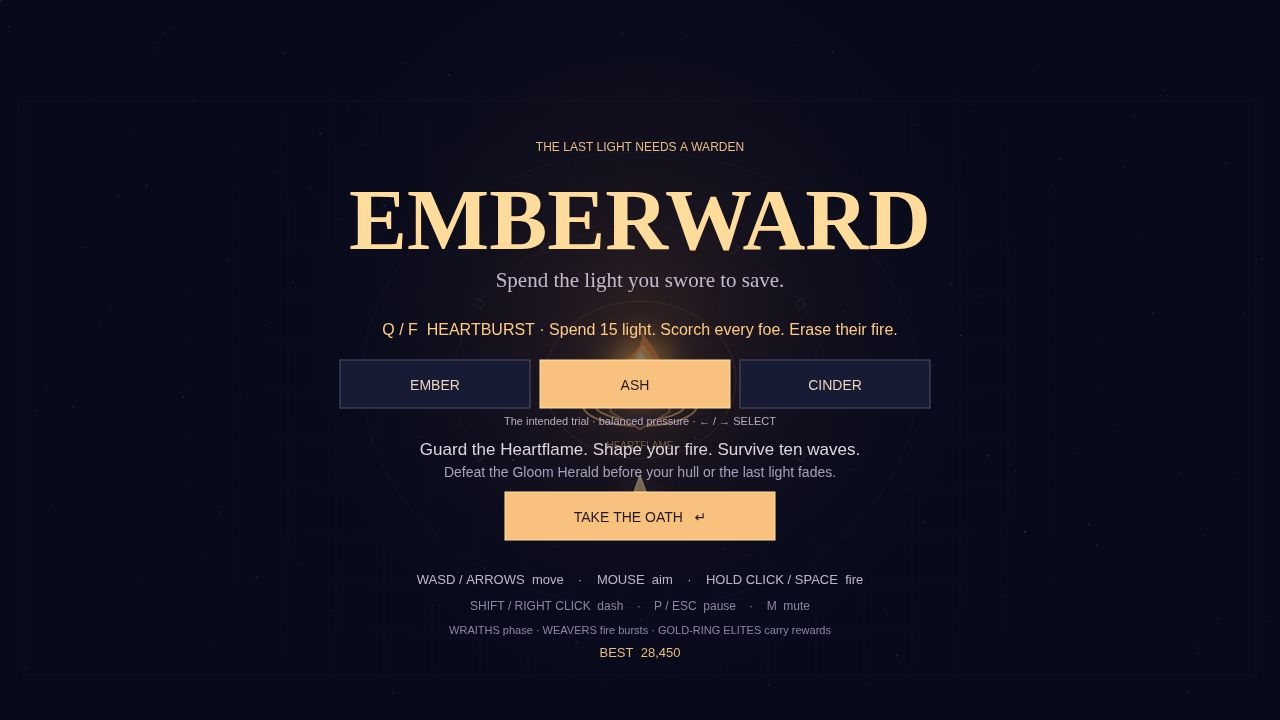
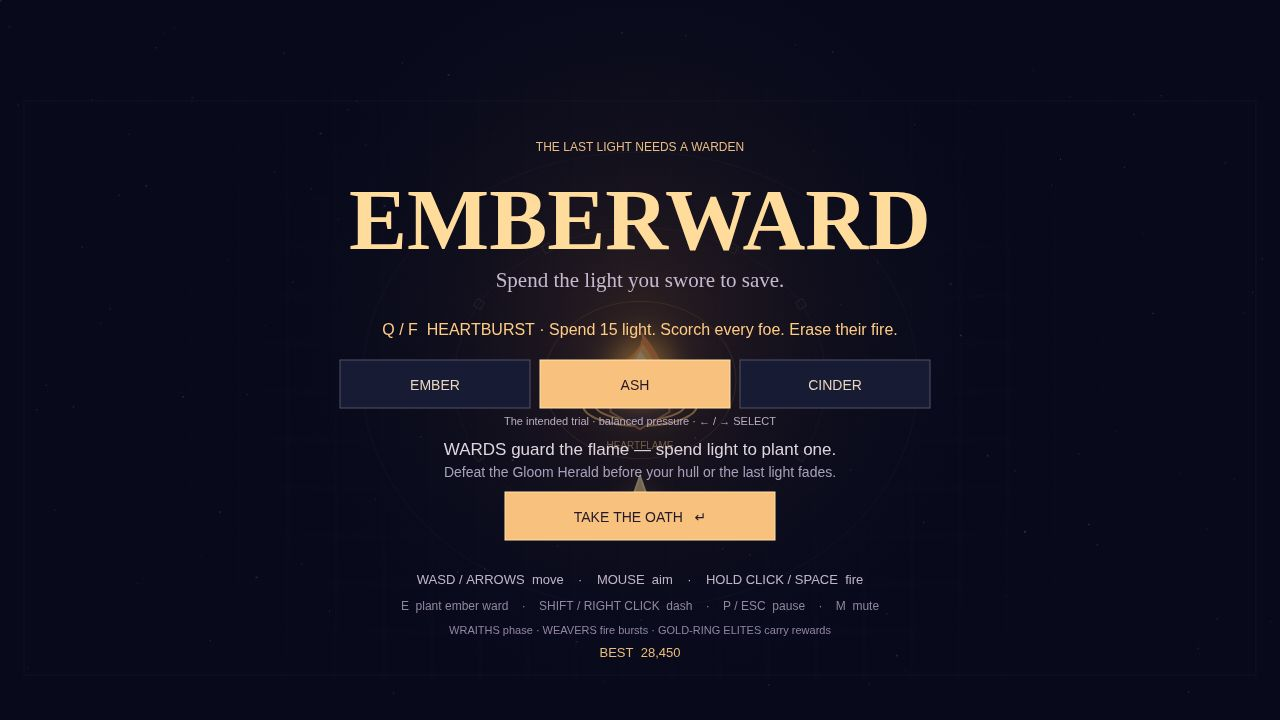
best-game-01 v3: Emberward — Ember Wards (E plants auto-firing ward, 10 light, max 3, 60 HP)

Changed region(s): [[0.3125, 0.6111, 0.6875, 0.6417], [0.3125, 0.825, 0.625, 0.8556], [0.6562, 0.825, 0.6875, 0.8556]]

diff --git a/game/src/render.js b/game/src/render.js
@@ -1,3 +1,4 @@
+import {drawWards} from './wards.js';
 import {difficulty,difficulties} from './difficulty.js';
 import {drawHeartburst} from './nova.js';
 import {CX,CY,colors} from './config.js';
@@ -9,6 +10,6 @@ function polygon(c,x,y,r,n,a=0){c.beginPath();for(let i=0;i<n;i++){const t=a+i*6
 export function background(c,s){c.fillStyle='#090c1e';c.fillRect(0,0,1280,720);glow(c,640,380,620,'#271b473f');for(let i=0;i<130;i++){const x=(i*173.71)%1280,y=(i*i*27.31)%720;c.globalAlpha=.2+.3*(.5+.5*Math.sin(s.time*.5+i));c.fillStyle=i%4?'#9694c4':'#f8ce91';c.fillRect(x,y,i%7===0?2:1,1.5);}c.globalAlpha=1;c.strokeStyle='#65558613';c.lineWidth=1;for(let x=0;x<1280;x+=48){c.beginPath();c.moveTo(x,88);c.lineTo(x,680);c.stroke();}for(let y=104;y<680;y+=48){c.beginPath();c.moveTo(0,y);c.lineTo(1280,y);c.stroke();}c.strokeStyle='#63517938';c.strokeRect(24,101,1232,574);for(const r of [96,186,278]){c.beginPath();c.ellipse(CX,CY,r,r*.82,0,0,Math.PI*2);c.strokeStyle=r===96?'#e5ae5844':'#7a628b28';c.stroke();}for(let i=0;i<12;i++){const a=i*Math.PI/6;c.save();c.translate(CX+Math.cos(a)*186,CY+Math.sin(a)*152);c.rotate(a);c.strokeStyle='#b28f6540';c.strokeRect(-4,-4,8,8);c.restore();}}
 export function heart(c,s){const t=s.time;glow(c,CX,CY,245,'#f89a2221');glow(c,CX,CY,110,'#ffb3412b');c.strokeStyle='#eeb86c';c.lineWidth=2;for(let i=0;i<2;i++){c.beginPath();c.ellipse(CX,CY+25,45+i*12,15+i*6,0,0,Math.PI*2);c.stroke();}c.fillStyle='#251e35';polygon(c,CX,CY+15,34,6,Math.PI/6);c.fill();c.strokeStyle='#b57d53';c.stroke();c.save();c.translate(CX,CY);c.shadowColor='#ffb947';c.shadowBlur=35;for(let k=0;k<3;k++){c.fillStyle=['#f68645','#ffc26c','#fff0b0'][k];const r=23-k*7;c.beginPath();c.moveTo(-r,7);c.bezierCurveTo(-r*1.6,-15,8+Math.sin(t*3)*5,-28-k*8,0,-49+k*10);c.bezierCurveTo(35-k*9,-11,27-k*8,16,0,20-k*4);c.closePath();c.fill();}c.restore();text(c,'HEARTFLAME',CX,CY+69,10,'#e5b47d','center');}
 function drawEnemy(c,e,t){c.save();if(e.phased)c.globalAlpha=.23;if(e.elite){c.strokeStyle='#ffd47d';c.lineWidth=2;c.beginPath();c.arc(e.x,e.y,e.r+7,0,7);c.stroke();}const color=e.flash>0?'#fff6dc':e.enraged?'#ff756f':colors[e.type];glow(c,e.x,e.y,e.r*2.8,color+'22');c.save();c.translate(e.x,e.y);if(e.type==='warden')c.scale(.6,.6);c.rotate(e.type==='dasher'?Math.atan2(e.y-380,e.x-640):Math.sin(t+e.x)*.13);c.strokeStyle=color;c.fillStyle=e.flash>0?'#fff2da':'#17152f';c.lineWidth=2;if(e.type==='wisp'||e.type==='mini'){c.beginPath();c.moveTo(-e.r,7);c.bezierCurveTo(-e.r*1.5,-e.r,0,-e.r*1.8,e.r,0);c.lineTo(e.r*.5,e.r);c.lineTo(0,e.r*.5);c.lineTo(-e.r*.5,e.r);c.closePath();}else if(e.type==='wraith'){polygon(c,0,0,e.r,4,t);c.setLineDash([5,4]);}else if(e.type==='weaver'){polygon(c,0,0,e.r,3,-t*.6);}else if(e.type==='dasher'){polygon(c,0,0,e.r*1.3,3,0);}else if(e.type==='spitter'){polygon(c,0,0,e.r,6,t*.2);}else if(e.type==='splitter'){polygon(c,0,0,e.r,4,0);}else{polygon(c,0,0,e.r,['boss','warden'].includes(e.type)?8:6,Math.PI/8);}c.fill();c.stroke();c.shadowColor=color;c.shadowBlur=12;c.fillStyle=color;if(e.type==='boss'||e.type==='warden'){for(let i=0;i<8;i++){const a=i*Math.PI/4;c.beginPath();c.moveTo(Math.cos(a)*45,Math.sin(a)*45);c.lineTo(Math.cos(a+.12)*84,Math.sin(a+.12)*84);c.lineTo(Math.cos(a+.3)*50,Math.sin(a+.3)*50);c.fill();}c.beginPath();c.ellipse(0,0,23,11,0,0,Math.PI*2);c.fill();c.fillStyle='#20152f';c.fillRect(-3,-12,6,24);}else{c.fillRect(-7,-3,4,5);c.fillRect(3,-3,4,5);if(e.type==='brute'){c.strokeRect(-15,-15,30,30);}if(e.type==='splitter'){c.beginPath();c.moveTo(0,-17);c.lineTo(-5,0);c.lineTo(4,5);c.lineTo(0,17);c.stroke();}}c.restore();if(e.hp<e.max){c.fillStyle='#3b294a';c.fillRect(e.x-e.r,e.y-e.r-12,e.r*2,3);c.fillStyle=color;c.fillRect(e.x-e.r,e.y-e.r-12,e.r*2*e.hp/e.max,3);}c.restore();}
-export function arena(c,s){background(c,s);c.save();if(s.shake)c.translate(Math.sin(s.time*73)*s.shake,Math.cos(s.time*57)*s.shake*.65);heart(c,s);for(const q of s.pickups){const color=pickupColors[q.type];glow(c,q.x,q.y,30,color+'33');polygon(c,q.x,q.y,13,4,s.time*.4);c.fillStyle='#131c2e';c.fill();c.strokeStyle=color;c.stroke();text(c,{repair:'+',shield:'◇',rapid:'»',bomb:'✦'}[q.type],q.x,q.y+5,17,color,'center');}for(const e of s.enemies)drawEnemy(c,e,s.time);c.lineCap='round';for(const b of s.bullets){c.strokeStyle='#ffcf76';c.shadowColor='#ffb24d';c.shadowBlur=13;c.lineWidth=b.size||3;c.beginPath();c.moveTo(b.x-b.vx*.026,b.y-b.vy*.026);c.lineTo(b.x,b.y);c.stroke();}c.shadowBlur=0;for(const o of s.orbs){glow(c,o.x,o.y,22,'#b576f64f');c.fillStyle='#d7b0ff';c.beginPath();c.arc(o.x,o.y,5,0,7);c.fill();}const p=s.player;c.save();c.translate(p.x,p.y);c.rotate(p.angle);glow(c,0,0,42,'#ffcc6b30');if(p.inv>0&&Math.floor(s.time*15)%2===0)c.globalAlpha=.4;c.fillStyle='#f9ce8a';c.strokeStyle='#fff1c6';c.lineWidth=2;c.beginPath();c.moveTo(24,0);c.lineTo(-13,-13);c.lineTo(-7,0);c.lineTo(-13,13);c.closePath();c.fill();c.stroke();c.fillStyle='#64415a';polygon(c,1,0,6,4);c.fill();c.fillStyle='#ff824d';c.beginPath();c.moveTo(-11,-5);c.lineTo(-22-Math.sin(s.time*30)*6,0);c.lineTo(-11,5);c.fill();if(p.muzzle>0){glow(c,29,0,40,'#ffe4a7aa');}c.restore();if(p.shield>0){c.strokeStyle='#81d9ff';c.beginPath();c.arc(p.x,p.y,28,0,7);c.stroke();}for(let i=0;i<p.orbits;i++){const x=p.x+Math.cos(s.time*2.5+i*6.28/p.orbits)*55,y=p.y+Math.sin(s.time*2.5+i*6.28/p.orbits)*55;glow(c,x,y,23,'#ffd08c88');c.fillStyle='#ffdc98';polygon(c,x,y,7,4,s.time);c.fill();}for(const q of s.particles){c.globalAlpha=Math.min(1,q.life*2);c.fillStyle=q.color;c.fillRect(q.x,q.y,q.size,q.size);}c.globalAlpha=1;for(const q of s.texts){c.globalAlpha=Math.min(1,q.life*2);text(c,q.text,q.x,q.y,q.size||14,q.color,'center');}c.globalAlpha=1;c.restore();drawHeartburst(c,s);if(s.clearFlash>0){c.fillStyle=`rgba(255,222,155,${s.clearFlash})`;c.fillRect(0,0,1280,720);}if(s.flame<25&&s.screen==='play')s.damageFlash=Math.max(s.damageFlash,.14+.1*Math.sin(s.time*5));if(s.damageFlash>0){const g=c.createRadialGradient(640,360,200,640,360,700);g.addColorStop(0,'transparent');g.addColorStop(1,`rgba(255,75,100,${s.damageFlash})`);c.fillStyle=g;c.fillRect(0,0,1280,720);}}
+export function arena(c,s){background(c,s);c.save();if(s.shake)c.translate(Math.sin(s.time*73)*s.shake,Math.cos(s.time*57)*s.shake*.65);heart(c,s);drawWards(c,s);for(const q of s.pickups){const color=pickupColors[q.type];glow(c,q.x,q.y,30,color+'33');polygon(c,q.x,q.y,13,4,s.time*.4);c.fillStyle='#131c2e';c.fill();c.strokeStyle=color;c.stroke();text(c,{repair:'+',shield:'◇',rapid:'»',bomb:'✦'}[q.type],q.x,q.y+5,17,color,'center');}for(const e of s.enemies)drawEnemy(c,e,s.time);c.lineCap='round';for(const b of s.bullets){c.strokeStyle=b.ward?'#fff1b4':'#ffcf76';c.shadowColor='#ffb24d';c.shadowBlur=13;c.lineWidth=b.size||3;c.beginPath();c.moveTo(b.x-b.vx*.026,b.y-b.vy*.026);c.lineTo(b.x,b.y);c.stroke();}c.shadowBlur=0;for(const o of s.orbs){glow(c,o.x,o.y,22,'#b576f64f');c.fillStyle='#d7b0ff';c.beginPath();c.arc(o.x,o.y,5,0,7);c.fill();}const p=s.player;c.save();c.translate(p.x,p.y);c.rotate(p.angle);glow(c,0,0,42,'#ffcc6b30');if(p.inv>0&&Math.floor(s.time*15)%2===0)c.globalAlpha=.4;c.fillStyle='#f9ce8a';c.strokeStyle='#fff1c6';c.lineWidth=2;c.beginPath();c.moveTo(24,0);c.lineTo(-13,-13);c.lineTo(-7,0);c.lineTo(-13,13);c.closePath();c.fill();c.stroke();c.fillStyle='#64415a';polygon(c,1,0,6,4);c.fill();c.fillStyle='#ff824d';c.beginPath();c.moveTo(-11,-5);c.lineTo(-22-Math.sin(s.time*30)*6,0);c.lineTo(-11,5);c.fill();if(p.muzzle>0){glow(c,29,0,40,'#ffe4a7aa');}c.restore();if(p.shield>0){c.strokeStyle='#81d9ff';c.beginPath();c.arc(p.x,p.y,28,0,7);c.stroke();}for(let i=0;i<p.orbits;i++){const x=p.x+Math.cos(s.time*2.5+i*6.28/p.orbits)*55,y=p.y+Math.sin(s.time*2.5+i*6.28/p.orbits)*55;glow(c,x,y,23,'#ffd08c88');c.fillStyle='#ffdc98';polygon(c,x,y,7,4,s.time);c.fill();}for(const q of s.particles){c.globalAlpha=Math.min(1,q.life*2);c.fillStyle=q.color;c.fillRect(q.x,q.y,q.size,q.size);}c.globalAlpha=1;for(const q of s.texts){c.globalAlpha=Math.min(1,q.life*2);text(c,q.text,q.x,q.y,q.size||14,q.color,'center');}c.globalAlpha=1;c.restore();drawHeartburst(c,s);if(s.clearFlash>0){c.fillStyle=`rgba(255,222,155,${s.clearFlash})`;c.fillRect(0,0,1280,720);}if(s.flame<25&&s.screen==='play')s.damageFlash=Math.max(s.damageFlash,.14+.1*Math.sin(s.time*5));if(s.damageFlash>0){const g=c.createRadialGradient(640,360,200,640,360,700);g.addColorStop(0,'transparent');g.addColorStop(1,`rgba(255,75,100,${s.damageFlash})`);c.fillStyle=g;c.fillRect(0,0,1280,720);}}
 function veil(c,alpha=.87){c.fillStyle=`rgba(8,10,26,${alpha})`;c.fillRect(0,0,1280,720);}
-export function render(c,s,input){arena(c,s);if(s.screen==='play'){hud(c,s);c.strokeStyle='#f8cc82aa';c.lineWidth=1;c.beginPath();c.arc(input.x,input.y,9,0,7);c.moveTo(input.x-15,input.y);c.lineTo(input.x-5,input.y);c.moveTo(input.x+5,input.y);c.lineTo(input.x+15,input.y);c.stroke();return;}if(s.screen==='title'){veil(c,.53);glow(c,640,300,380,'#d27d3222');text(c,'THE LAST LIGHT NEEDS A WARDEN',640,151,12,'#e8bc84','center');text(c,'EMBERWARD',640,249,87,'#ffdc9c','center','Georgia,serif');text(c,'Spend the light you swore to save.',640,287,21,'#c5b8cf','center','Georgia,serif');text(c,'Q / F  HEARTBURST · Spend 15 light. Scorch every foe. Erase their fire.',640,335,16,'#ffcb85','center');difficulties.forEach((d,i)=>button(c,d.name.toUpperCase(),340+i*200,360,190,s.difficulty===i));text(c,difficulty(s).hint+' · ← / → SELECT',640,425,11,'#b8acc3','center');text(c,'Guard the Heartflame. Shape your fire. Survive ten waves.',640,455,17,'#ded6df','center');text(c,'Defeat the Gloom Herald before your hull or the last light fades.',640,477,14,'#a9a0ba','center');button(c,'TAKE THE OATH   ↵',505,492);text(c,'WASD / ARROWS  move    ·    MOUSE  aim    ·    HOLD CLICK / SPACE  fire',640,584,13,'#c2b4c7','center');text(c,'SHIFT / RIGHT CLICK  dash    ·    P / ESC  pause    ·    M  mute',640,610,12,'#91869f','center');text(c,'WRAITHS phase · WEAVERS fire bursts · GOLD-RING ELITES carry rewards',640,634,11,'#91869f','center');text(c,'BEST  '+s.best.toLocaleString(),640,657,13,'#e9bc7b','center');return;}hud(c,s);veil(c);if(s.screen==='pause'){text(c,'THE FLAME CAN WAIT',640,246,14,'#d7aa77','center');text(c,'Paused',640,315,60,'#ffe0a9','center','Georgia,serif');button(c,'RESUME   P / ESC',505,366);button(c,'RESTART   R',505,429,270,false);text(c,'WASD / ARROWS move  ·  MOUSE aim  ·  CLICK / SPACE shoot  ·  M mute',640,536,13,'#b4a7c0','center');return;}if(s.screen==='boon'){text(c,s.resumeWave?'HERALD WARDEN BROKEN · BONUS BOON':`WAVE ${s.wave} CLEARED`,640,163,13,'#e4b67c','center');text(c,'Feed the fire within',640,223,47,'#ffdda5','center','Georgia,serif');text(c,s.resumeWave?'Claim a blessing, then return to the battle':'Choose one blessing for the journey ahead',640,260,15,'#b3a5be','center');s.choices.forEach((b,i)=>{const x=190+i*310,sel=s.selected===i;c.fillStyle=sel?'#30253d':'#15172e';c.fillRect(x,308,280,220);c.strokeStyle=sel?'#efbc7c':'#48405d';c.strokeRect(x,308,280,220);text(c,b[3],x+140,367,37,'#ffc887','center');text(c,b[1],x+140,413,23,'#f4ddbc','center','Georgia,serif');text(c,b[2],x+140,447,13,'#b8acc3','center');text(c,`[ ${i+1} ]  CLAIM`,x+140,499,12,sel?'#ffcc84':'#978aa6','center');});button(c,s.rerolls?'R  REROLL · 1 FREE':'REROLL SPENT',505,548,270,!!s.rerolls);text(c,'1 / 2 / 3  choose  ·  ← → and ENTER  confirm',640,625,13,'#a89bb6','center');return;}const won=s.screen==='victory';text(c,won?'THE DAWN REMEMBERS':'EVEN EMBERS LEAVE A MARK',640,173,13,'#e8b97f','center');text(c,won?'The light endures.':'The last light falls.',640,245,58,won?'#ffdda3':'#d1b5ed','center','Georgia,serif');text(c,won?'The Gloom Herald is broken. You kept the oath.':s.cause,640,284,16,'#bfb0c9','center');text(c,difficulty(s).name.toUpperCase()+' DIFFICULTY'+(s.endless?' · THE LONG NIGHT':''),640,311,12,'#ffca88','center');const stats=[['SCORE',Math.floor(s.score).toLocaleString()],['BEST',Math.floor(s.best).toLocaleString()],['WAVES CLEARED',s.endless?`${Math.max(0,s.wave-1)} (+${Math.max(0,s.wave-11)})`:`${won?10:Math.max(0,s.wave-1)} / 10`],['VOID SLAIN',s.kills],['TIME',`${Math.floor(s.elapsed/60)}:${String(Math.floor(s.elapsed%60)).padStart(2,'0')}`],['ACCURACY',`${s.shots?Math.min(100,Math.round(s.hits/s.shots*100)):0}%`]];stats.forEach(([label,value],i)=>{const x=420+(i%3)*220,y=352+Math.floor(i/3)*92;text(c,label,x,y,11,'#978ba9','center');text(c,String(value),x,y+37,30,'#ffe0a7','center');});button(c,won?'PLAY AGAIN   ↵':'TRY AGAIN   ↵',505,554);if(won)button(c,'CONTINUE — THE LONG NIGHT  [N]',445,615,390,false);text(c,s.endless?'The Long Night claimed '+Math.max(0,s.wave-11)+' waves beyond dawn.':'A new oath. A different fire.',640,won?693:640,14,'#9e90ad','center','Georgia,serif');}
+export function render(c,s,input){arena(c,s);if(s.screen==='play'){hud(c,s);c.strokeStyle='#f8cc82aa';c.lineWidth=1;c.beginPath();c.arc(input.x,input.y,9,0,7);c.moveTo(input.x-15,input.y);c.lineTo(input.x-5,input.y);c.moveTo(input.x+5,input.y);c.lineTo(input.x+15,input.y);c.stroke();return;}if(s.screen==='title'){veil(c,.53);glow(c,640,300,380,'#d27d3222');text(c,'THE LAST LIGHT NEEDS A WARDEN',640,151,12,'#e8bc84','center');text(c,'EMBERWARD',640,249,87,'#ffdc9c','center','Georgia,serif');text(c,'Spend the light you swore to save.',640,287,21,'#c5b8cf','center','Georgia,serif');text(c,'Q / F  HEARTBURST · Spend 15 light. Scorch every foe. Erase their fire.',640,335,16,'#ffcb85','center');difficulties.forEach((d,i)=>button(c,d.name.toUpperCase(),340+i*200,360,190,s.difficulty===i));text(c,difficulty(s).hint+' · ← / → SELECT',640,425,11,'#b8acc3','center');text(c,'WARDS guard the flame — spend light to plant one.',640,455,17,'#ded6df','center');text(c,'Defeat the Gloom Herald before your hull or the last light fades.',640,477,14,'#a9a0ba','center');button(c,'TAKE THE OATH   ↵',505,492);text(c,'WASD / ARROWS  move    ·    MOUSE  aim    ·    HOLD CLICK / SPACE  fire',640,584,13,'#c2b4c7','center');text(c,'E  plant ember ward    ·    SHIFT / RIGHT CLICK  dash    ·    P / ESC  pause    ·    M  mute',640,610,12,'#91869f','center');text(c,'WRAITHS phase · WEAVERS fire bursts · GOLD-RING ELITES carry rewards',640,634,11,'#91869f','center');text(c,'BEST  '+s.best.toLocaleString(),640,657,13,'#e9bc7b','center');return;}hud(c,s);veil(c);if(s.screen==='pause'){text(c,'THE FLAME CAN WAIT',640,246,14,'#d7aa77','center');text(c,'Paused',640,315,60,'#ffe0a9','center','Georgia,serif');button(c,'RESUME   P / ESC',505,366);button(c,'RESTART   R',505,429,270,false);text(c,'WASD / ARROWS move  ·  MOUSE aim  ·  CLICK / SPACE shoot  ·  M mute',640,536,13,'#b4a7c0','center');return;}if(s.screen==='boon'){text(c,s.resumeWave?'HERALD WARDEN BROKEN · BONUS BOON':`WAVE ${s.wave} CLEARED`,640,163,13,'#e4b67c','center');text(c,'Feed the fire within',640,223,47,'#ffdda5','center','Georgia,serif');text(c,s.resumeWave?'Claim a blessing, then return to the battle':'Choose one blessing for the journey ahead',640,260,15,'#b3a5be','center');s.choices.forEach((b,i)=>{const x=190+i*310,sel=s.selected===i;c.fillStyle=sel?'#30253d':'#15172e';c.fillRect(x,308,280,220);c.strokeStyle=sel?'#efbc7c':'#48405d';c.strokeRect(x,308,280,220);text(c,b[3],x+140,367,37,'#ffc887','center');text(c,b[1],x+140,413,23,'#f4ddbc','center','Georgia,serif');text(c,b[2],x+140,447,13,'#b8acc3','center');text(c,`[ ${i+1} ]  CLAIM`,x+140,499,12,sel?'#ffcc84':'#978aa6','center');});button(c,s.rerolls?'R  REROLL · 1 FREE':'REROLL SPENT',505,548,270,!!s.rerolls);text(c,'1 / 2 / 3  choose  ·  ← → and ENTER  confirm',640,625,13,'#a89bb6','center');return;}const won=s.screen==='victory';text(c,won?'THE DAWN REMEMBERS':'EVEN EMBERS LEAVE A MARK',640,173,13,'#e8b97f','center');text(c,won?'The light endures.':'The last light falls.',640,245,58,won?'#ffdda3':'#d1b5ed','center','Georgia,serif');text(c,won?'The Gloom Herald is broken. You kept the oath.':s.cause,640,284,16,'#bfb0c9','center');text(c,difficulty(s).name.toUpperCase()+' DIFFICULTY'+(s.endless?' · THE LONG NIGHT':''),640,311,12,'#ffca88','center');const stats=[['SCORE',Math.floor(s.score).toLocaleString()],['BEST',Math.floor(s.best).toLocaleString()],['WAVES CLEARED',s.endless?`${Math.max(0,s.wave-1)} (+${Math.max(0,s.wave-11)})`:`${won?10:Math.max(0,s.wave-1)} / 10`],['VOID SLAIN',s.kills],['TIME',`${Math.floor(s.elapsed/60)}:${String(Math.floor(s.elapsed%60)).padStart(2,'0')}`],['ACCURACY',`${s.shots?Math.min(100,Math.round(s.hits/s.shots*100)):0}%`]];stats.forEach(([label,value],i)=>{const x=420+(i%3)*220,y=352+Math.floor(i/3)*92;text(c,label,x,y,11,'#978ba9','center');text(c,String(value),x,y+37,30,'#ffe0a7','center');});button(c,won?'PLAY AGAIN   ↵':'TRY AGAIN   ↵',505,554);if(won)button(c,'CONTINUE — THE LONG NIGHT  [N]',445,615,390,false);text(c,s.endless?'The Long Night claimed '+Math.max(0,s.wave-11)+' waves beyond dawn.':'A new oath. A different fire.',640,won?693:640,14,'#9e90ad','center','Georgia,serif');}

diff --git a/game/src/hud.js b/game/src/hud.js
@@ -1,5 +1,6 @@
+import {WARD_COST,WARD_MAX} from './wards.js';
 import {difficulty} from './difficulty.js';
 export function text(c,str,x,y,size=16,color='#eee5da',align='left',font='sans-serif'){c.font=`${size>=28?'600':'500'} ${size}px ${font}`;c.fillStyle=color;c.textAlign=align;c.fillText(str,x,y);}
 export function bar(c,x,y,w,h,value,color){c.fillStyle='#23243d';c.fillRect(x,y,w,h);c.fillStyle=color;c.fillRect(x,y,w*Math.max(0,Math.min(1,value)),h);}
-export function hud(c,s){const p=s.player;c.fillStyle='#0c1023ee';c.fillRect(0,0,1280,88);c.strokeStyle='#34304a';c.beginPath();c.moveTo(32,87);c.lineTo(1248,87);c.stroke();text(c,'EMBERWARD',32,34,22,'#ffce83');text(c,difficulty(s).name.toUpperCase()+' · KEEP THE LAST LIGHT',33,57,10,'#a19bb5');text(c,'HULL',250,26,11,'#9d9bb4');text(c,`${Math.ceil(Math.max(0,p.hp))} / ${p.max}`,430,26,11,'#e9d9c2','right');bar(c,250,37,180,8,p.hp/p.max,'#f8b76d');text(c,'HEARTFLAME',470,26,11,'#9d9bb4');text(c,`${Math.ceil(Math.max(0,s.flame))}%`,650,26,11,'#ffcf79','right');bar(c,470,37,180,8,s.flame/100,'#ffce74');text(c,'WAVE',700,26,11,'#9d9bb4');text(c,s.endless?`${s.wave} / ∞`:`${String(s.wave).padStart(2,'0')} / 10`,700,51,21);text(c,'SCORE',850,26,11,'#9d9bb4');text(c,Math.floor(s.score).toLocaleString(),850,51,24,'#ffdc9b');text(c,'BEST  '+Math.floor(s.best).toLocaleString(),1050,29,12,'#a6a2bb');text(c,'P  PAUSE     M  '+(s.muted?'UNMUTE':'SOUND'),1050,53,11,'#a6a2bb');if(s.combo>1)text(c,`${s.combo} CHAIN  ×${(1+Math.min(s.combo,40)*.08).toFixed(1)}`,850,73,12,'#ffab73');text(c,(p.dashCooldown>0?'◌ DASH '+p.dashCooldown.toFixed(1)+'s':'● DASH READY'),250,73,11,'#ffe1a1');if(s.wave!==10)text(c,(s.pending+s.enemies.length)+' FOES LEFT',700,73,10,'#a6a2bb');text(c,'[Q / F] HEARTBURST · 15 LIGHT',470,73,11,s.flame>=15?'#ffd28b':'#66617a');text(c,'SANCTUARY  ·  HULL REGENERATES NEAR THE FLAME',32,697,11,'#8c87a8');text(c,s.owned.slice(-16).map(id=>({kindle:'✦',tempo:'»',stride:'↗',hull:'+',repair:'☀',spread:'⋔',pierce:'→',magnet:'◎',orbit:'◈',fortune:'×',swift:'↯',focus:'✧',siphon:'♡',heavy:'●',ward:'◇',nova:'☼'}[id])).join('  '),1240,697,21,'#e9c384','right');const boss=s.enemies.find(e=>e.type==='boss'||e.type==='warden');if(boss){text(c,(boss.type==='warden'?'HERALD WARDEN':'GLOOM HERALD')+'  /  '+(boss.hp<boss.max*.25?'ENRAGED':boss.hp<boss.max*.5?'THE UNRAVELING':'THE HUNGER'),640,113,12,'#edb0ff','center');bar(c,320,122,640,7,boss.hp/boss.max,boss.hp<boss.max*.25?'#ff756f':'#cc86f6');}if(s.flame<30)text(c,'⚠ HEARTFLAME FADING · INTERCEPT THE DRIFTERS',640,659,15,'#ff977a','center');if(s.banner>0&&s.waveTime<3){c.globalAlpha=Math.min(1,s.banner);text(c,s.endless?`THE LONG NIGHT · ${s.wave}`:s.wave===10?'THE HERALD ARRIVES':`${s.surge?'SURGE · ':''}WAVE ${String(s.wave).padStart(2,'0')}`,640,207,32,'#ffdb9b','center');text(c,s.wave===10?'BREAK THE DARK. KEEP THE FLAME.':s.surge?'FASTER ASSAULT · +50% SCORE':'INTERCEPT THE VOID • DEFEND THE HEART',640,233,11,'#b7adc4','center');c.globalAlpha=1;}}
+export function hud(c,s){const p=s.player;c.fillStyle='#0c1023ee';c.fillRect(0,0,1280,88);c.strokeStyle='#34304a';c.beginPath();c.moveTo(32,87);c.lineTo(1248,87);c.stroke();text(c,'EMBERWARD',32,34,22,'#ffce83');text(c,difficulty(s).name.toUpperCase()+' · KEEP THE LAST LIGHT',33,57,10,'#a19bb5');text(c,'HULL',250,26,11,'#9d9bb4');text(c,`${Math.ceil(Math.max(0,p.hp))} / ${p.max}`,430,26,11,'#e9d9c2','right');bar(c,250,37,180,8,p.hp/p.max,'#f8b76d');text(c,'HEARTFLAME',470,26,11,'#9d9bb4');text(c,`${Math.ceil(Math.max(0,s.flame))}%`,650,26,11,'#ffcf79','right');bar(c,470,37,180,8,s.flame/100,'#ffce74');text(c,'WAVE',700,26,11,'#9d9bb4');text(c,s.endless?`${s.wave} / ∞`:`${String(s.wave).padStart(2,'0')} / 10`,700,51,21);text(c,'SCORE',850,26,11,'#9d9bb4');text(c,Math.floor(s.score).toLocaleString(),850,51,24,'#ffdc9b');text(c,'BEST  '+Math.floor(s.best).toLocaleString(),1050,29,12,'#a6a2bb');text(c,'P  PAUSE     M  '+(s.muted?'UNMUTE':'SOUND'),1050,53,11,'#a6a2bb');if(s.combo>1)text(c,`${s.combo} CHAIN  ×${(1+Math.min(s.combo,40)*.08).toFixed(1)}`,850,73,12,'#ffab73');text(c,(p.dashCooldown>0?'◌ DASH '+p.dashCooldown.toFixed(1)+'s':'● DASH READY'),250,73,11,'#ffe1a1');if(s.wave!==10)text(c,(s.pending+s.enemies.length)+' FOES LEFT',700,73,10,'#a6a2bb');text(c,'[Q / F] HEARTBURST · 15 LIGHT',470,73,11,s.flame>=15?'#ffd28b':'#66617a');text(c,`WARDS ${'●'.repeat(s.wards.length)}${'○'.repeat(WARD_MAX-s.wards.length)} ${s.wards.length}/${WARD_MAX}`,32,661,13,'#ffd28b');text(c,`[E] WARD · ${WARD_COST} LIGHT`,470,59,10,s.flame>WARD_COST&&s.wards.length<WARD_MAX?'#ffd28b':'#66617a');text(c,'SANCTUARY  ·  HULL REGENERATES NEAR THE FLAME',32,697,11,'#8c87a8');text(c,s.owned.slice(-16).map(id=>({kindle:'✦',tempo:'»',stride:'↗',hull:'+',repair:'☀',spread:'⋔',pierce:'→',magnet:'◎',orbit:'◈',fortune:'×',swift:'↯',focus:'✧',siphon:'♡',heavy:'●',ward:'◇',nova:'☼'}[id])).join('  '),1240,697,21,'#e9c384','right');const boss=s.enemies.find(e=>e.type==='boss'||e.type==='warden');if(boss){text(c,(boss.type==='warden'?'HERALD WARDEN':'GLOOM HERALD')+'  /  '+(boss.hp<boss.max*.25?'ENRAGED':boss.hp<boss.max*.5?'THE UNRAVELING':'THE HUNGER'),640,113,12,'#edb0ff','center');bar(c,320,122,640,7,boss.hp/boss.max,boss.hp<boss.max*.25?'#ff756f':'#cc86f6');}if(s.flame<30)text(c,'⚠ HEARTFLAME FADING · INTERCEPT THE DRIFTERS',640,659,15,'#ff977a','center');if(s.banner>0&&s.waveTime<3){c.globalAlpha=Math.min(1,s.banner);text(c,s.endless?`THE LONG NIGHT · ${s.wave}`:s.wave===10?'THE HERALD ARRIVES':`${s.surge?'SURGE · ':''}WAVE ${String(s.wave).padStart(2,'0')}`,640,207,32,'#ffdb9b','center');text(c,s.wave===10?'BREAK THE DARK. KEEP THE FLAME.':s.surge?'FASTER ASSAULT · +50% SCORE':'INTERCEPT THE VOID • DEFEND THE HEART',640,233,11,'#b7adc4','center');c.globalAlpha=1;}}
 export function button(c,label,x,y,w=270,selected=true){c.fillStyle=selected?'#f8c17d':'#171b33';c.strokeStyle=selected?'#ffe2ac':'#55506b';c.lineWidth=1;c.fillRect(x,y,w,48);c.strokeRect(x,y,w,48);text(c,label,x+w/2,y+30,14,selected?'#23192a':'#ead5be','center');}

diff --git a/game/src/main.js b/game/src/main.js
@@ -1,3 +1,4 @@
+import {placeWard} from './wards.js';
 import {continueLongNight} from './endless.js';
 import {selectDifficulty} from './difficulty.js';
 import {heartburst} from './nova.js';
@@ -12,7 +13,7 @@ import {stageShot} from './shots.js';
 const canvas=document.getElementById('game'),ctx=canvas.getContext('2d');const query=new URLSearchParams(location.search),shot=query.get('shot');let state=shot?stageShot(shot,Number(query.get('seed'))||1):createState();
 function restart(){const muted=state.muted,difficulty=state.difficulty;state=createState();state.muted=muted;state.difficulty=difficulty;begin(state);}
 function choose(index){takeBoon(state,index);if(state.resumeWave){state.resumeWave=false;state.screen='play';}else startWave(state);}
-const input=createInput(canvas,key=>{if(shot)return;if(key!=='Blur')unlock();if(key==='KeyM'){state.muted=toggleMute();return;}if(state.screen==='victory'&&(key==='KeyN'||key==='Click'&&input.x>=445&&input.x<=835&&input.y>=615&&input.y<=663)){continueLongNight(state);return;}if(state.screen==='title'){if(key==='ArrowLeft'||key==='ArrowRight'){selectDifficulty(state,key==='ArrowLeft'?-1:1);return;}if(key==='Click'&&input.y>=360&&input.y<=408&&input.x>=340&&input.x<=940){state.difficulty=Math.min(2,Math.floor((input.x-340)/200));return;}}if(state.screen==='title'||state.screen==='victory'||state.screen==='defeat'){if(key==='Enter'||key==='Click'&&input.x>=505&&input.x<=775&&input.y>490&&input.y<610)restart();return;}if(key==='KeyP'||key==='Escape'||key==='Blur'){if(state.screen==='play')state.screen='pause';else if(state.screen==='pause'&&key!=='Blur')state.screen='play';return;}if(state.screen==='play'&&(key==='KeyQ'||key==='KeyF')){heartburst(state);return;}if(state.screen==='pause'){if(key==='Enter'||key==='Click'&&input.y>366&&input.y<414)state.screen='play';if(key==='KeyR'||key==='Click'&&input.y>429&&input.y<477)restart();return;}if(state.screen==='boon'){if(key==='KeyR'||key==='Click'&&input.x>=505&&input.x<=775&&input.y>=548&&input.y<=596){rerollBoons(state);return;}if(['Digit1','Digit2','Digit3'].includes(key))choose(Number(key.slice(-1))-1);else if(key==='ArrowRight')state.selected=(state.selected+1)%3;else if(key==='ArrowLeft')state.selected=(state.selected+2)%3;else if(key==='Enter')choose(state.selected);else if(key==='Click'&&input.y>308&&input.y<528){const index=Math.floor((input.x-190)/310);if(index>=0&&index<3&&input.x<190+index*310+280)choose(index);}}});
+const input=createInput(canvas,key=>{if(shot)return;if(key!=='Blur')unlock();if(key==='KeyM'){state.muted=toggleMute();return;}if(state.screen==='victory'&&(key==='KeyN'||key==='Click'&&input.x>=445&&input.x<=835&&input.y>=615&&input.y<=663)){continueLongNight(state);return;}if(state.screen==='title'){if(key==='ArrowLeft'||key==='ArrowRight'){selectDifficulty(state,key==='ArrowLeft'?-1:1);return;}if(key==='Click'&&input.y>=360&&input.y<=408&&input.x>=340&&input.x<=940){state.difficulty=Math.min(2,Math.floor((input.x-340)/200));return;}}if(state.screen==='title'||state.screen==='victory'||state.screen==='defeat'){if(key==='Enter'||key==='Click'&&input.x>=505&&input.x<=775&&input.y>490&&input.y<610)restart();return;}if(key==='KeyP'||key==='Escape'||key==='Blur'){if(state.screen==='play')state.screen='pause';else if(state.screen==='pause'&&key!=='Blur')state.screen='play';return;}if(state.screen==='play'&&key==='KeyE'){placeWard(state);return;}if(state.screen==='play'&&(key==='KeyQ'||key==='KeyF')){heartburst(state);return;}if(state.screen==='pause'){if(key==='Enter'||key==='Click'&&input.y>366&&input.y<414)state.screen='play';if(key==='KeyR'||key==='Click'&&input.y>429&&input.y<477)restart();return;}if(state.screen==='boon'){if(key==='KeyR'||key==='Click'&&input.x>=505&&input.x<=775&&input.y>=548&&input.y<=596){rerollBoons(state);return;}if(['Digit1','Digit2','Digit3'].includes(key))choose(Number(key.slice(-1))-1);else if(key==='ArrowRight')state.selected=(state.selected+1)%3;else if(key==='ArrowLeft')state.selected=(state.selected+2)%3;else if(key==='Enter')choose(state.selected);else if(key==='Click'&&input.y>308&&input.y<528){const index=Math.floor((input.x-190)/310);if(index>=0&&index<3&&input.x<190+index*310+280)choose(index);}}});
 // Expose read-only state inspection for local play testing; game rules remain in their modules.
 window.emberward={get state(){return state;}};
 if(shot){render(ctx,state,input);window.__shotReady=true;}else{let last=performance.now(),accumulator=0;function frame(now){accumulator+=Math.min(.1,(now-last)/1000);last=now;while(accumulator>=STEP){if(state.screen!=='pause'&&state.screen!=='boon')step(state,input,STEP);accumulator-=STEP;}ambient(state.time);render(ctx,state,input);requestAnimationFrame(frame);}requestAnimationFrame(frame);}

diff --git a/game/src/shots.js b/game/src/shots.js
@@ -1,5 +1,6 @@
+import {placeWard} from './wards.js';
 import {createState} from './state.js';
 import {enemy} from './entities.js';
 import {burst,floatText} from './particles.js';
 import {dropPickup} from './pickups.js';
-export function stageShot(name,seed){const s=createState(seed);s.time=147.3;s.best=28450;if(name==='title')return s;s.screen='play';s.wave=10;s.waveTime=14;s.pending=12;s.score=18640;s.kills=126;s.shots=460;s.hits=337;s.combo=18;s.comboTimer=3;s.flame=57;if(name==='play')s.heartburst=.44;s.owned=['kindle','spread','tempo','orbit','magnet','pierce'];Object.assign(s.player,{x:795,y:444,hp:78,angle:-.72,orbits:1,shield:8});for(const [type,x,y] of [['brute',420,279],['wisp',525,455],['wisp',559,265],['dasher',970,327],['dasher',313,503],['spitter',1050,501],['weaver',249,259],['splitter',945,187],['wisp',1120,610],['boss',680,205],['mini',1015,258],['wisp',380,596],['wraith',174,425]])enemy(s,type,x,y);const elite=s.enemies.find(e=>e.type==='brute');elite.elite=true;elite.r*=1.25;elite.hp=elite.max*=3;const boss=s.enemies.find(e=>e.type==='boss');boss.hp=boss.max*.43;s.player.dashCooldown=1.2;for(let i=0;i<12;i++){const a=-.7+(i%3-1)*.17,d=35+Math.floor(i/3)*54;s.bullets.push({x:795+Math.cos(a)*d,y:444+Math.sin(a)*d,vx:Math.cos(a)*660,vy:Math.sin(a)*660});}for(let i=0;i<9;i++){const a=i*1.2;s.orbs.push({x:640+Math.cos(a)*340,y:380+Math.sin(a)*210});}burst(s,900,350,'#ffcc7f',45,170);burst(s,515,451,'#be97ff',25,140);for(const p of s.particles){p.x+=p.vx*.23;p.y+=p.vy*.23;}floatText(s,914,309,'+240');dropPickup(s,683,506,'repair');dropPickup(s,382,384,'rapid');if(name==='victory'||name==='defeat'){s.screen=name;s.enemies=[];s.bullets=[];s.orbs=[];s.score=name==='victory'?42860:18640;s.best=42860;s.kills=name==='victory'?314:126;s.wave=name==='victory'?10:7;s.time=name==='victory'?562:347;s.elapsed=s.time;s.cause='The Heartflame faded into darkness.';if(name==='defeat')s.flame=0;}return s;}
+export function stageShot(name,seed){const s=createState(seed);s.time=147.3;s.best=28450;if(name==='title')return s;s.screen='play';s.wave=10;s.waveTime=14;s.pending=12;s.score=18640;s.kills=126;s.shots=460;s.hits=337;s.combo=18;s.comboTimer=3;s.flame=57;if(name==='play')s.heartburst=.44;s.owned=['kindle','spread','tempo','orbit','magnet','pierce'];Object.assign(s.player,{x:795,y:444,hp:78,angle:-.72,orbits:1,shield:8});for(const [type,x,y] of [['brute',420,279],['wisp',525,455],['wisp',559,265],['dasher',970,327],['dasher',313,503],['spitter',1050,501],['weaver',249,259],['splitter',945,187],['wisp',1120,610],['boss',680,205],['mini',1015,258],['wisp',380,596],['wraith',174,425]])enemy(s,type,x,y);const elite=s.enemies.find(e=>e.type==='brute');elite.elite=true;elite.r*=1.25;elite.hp=elite.max*=3;const boss=s.enemies.find(e=>e.type==='boss');boss.hp=boss.max*.43;if(name==='play'){for(const [x,y,tx,ty] of [[568,397,525,455],[881,530,1050,501]]){s.player.x=x;s.player.y=y;placeWard(s);const w=s.wards.at(-1);w.ring=0;w.flash=.1;for(const d of [44,85]){const a=Math.atan2(ty-y,tx-x);s.bullets.push({x:x+Math.cos(a)*d,y:y+Math.sin(a)*d,vx:Math.cos(a)*520,vy:Math.sin(a)*520,ward:true,size:4});}}s.player.x=795;s.player.y=444;s.texts=[];}s.player.dashCooldown=1.2;for(let i=0;i<12;i++){const a=-.7+(i%3-1)*.17,d=35+Math.floor(i/3)*54;s.bullets.push({x:795+Math.cos(a)*d,y:444+Math.sin(a)*d,vx:Math.cos(a)*660,vy:Math.sin(a)*660});}for(let i=0;i<9;i++){const a=i*1.2;s.orbs.push({x:640+Math.cos(a)*340,y:380+Math.sin(a)*210});}burst(s,900,350,'#ffcc7f',45,170);burst(s,515,451,'#be97ff',25,140);for(const p of s.particles){p.x+=p.vx*.23;p.y+=p.vy*.23;}floatText(s,914,309,'+240');dropPickup(s,683,506,'repair');dropPickup(s,382,384,'rapid');if(name==='victory'||name==='defeat'){s.screen=name;s.enemies=[];s.bullets=[];s.orbs=[];s.score=name==='victory'?42860:18640;s.best=42860;s.kills=name==='victory'?314:126;s.wave=name==='victory'?10:7;s.time=name==='victory'?562:347;s.elapsed=s.time;s.cause='The Heartflame faded into darkness.';if(name==='defeat')s.flame=0;}return s;}

diff --git a/game/src/entities.js b/game/src/entities.js
@@ -13,7 +13,7 @@ export function damageEnemy(s,e,n){if(e.phased||e.dead)return;e.hp-=n;e.flash=.0
 export function fireOrb(s,e,a,speed=105){s.orbs.push({x:e.x,y:e.y,vx:Math.cos(a)*speed,vy:Math.sin(a)*speed,life:9,r:7});}
 export function updateEntities(s,input,dt){const p=s.player;p.inv=Math.max(0,p.inv-dt);p.rapid=Math.max(0,p.rapid-dt);p.shield=Math.max(0,p.shield-dt);p.cool-=dt;p.muzzle=Math.max(0,p.muzzle-dt);const keys=input.keys;let dx=Number(keys.has('KeyD')||keys.has('ArrowRight'))-Number(keys.has('KeyA')||keys.has('ArrowLeft')),dy=Number(keys.has('KeyS')||keys.has('ArrowDown'))-Number(keys.has('KeyW')||keys.has('ArrowUp'));const len=Math.hypot(dx,dy)||1;const easing=1-Math.exp(-18*dt);p.vx+=(dx/len*p.speed-p.vx)*easing;p.vy+=(dy/len*p.speed-p.vy)*easing;p.x=clamp(p.x+p.vx*dt,38,1242);p.y=clamp(p.y+p.vy*dt,110,669);p.angle=Math.atan2(input.y-p.y,input.x-p.x);updateDash(s,input,dx,dy,dt);if(distance(p,{x:CX,y:CY})<FLAME_REGEN_RADIUS)p.hp=Math.min(p.max,p.hp+1.5*dt);
  if((input.fire||keys.has('Space'))&&p.cool<=0){p.cool=p.rate*(p.rapid>0?.5:1);p.muzzle=.06;sound('shoot');const angles=[0];for(let i=1;i<=Math.min(p.spread,3);i++)angles.push(i*.14,-i*.14);for(const offset of angles){const a=p.angle+offset;s.bullets.push({x:p.x+Math.cos(a)*23,y:p.y+Math.sin(a)*23,vx:Math.cos(a)*660*(p.heavy||1),vy:Math.sin(a)*660*(p.heavy||1),size:3*(p.heavy||1),life:1.6,pierce:p.pierce,hit:new Set()});s.shots++;}}
- for(const b of s.bullets){b.x+=b.vx*dt;b.y+=b.vy*dt;b.life-=dt;for(const e of s.enemies){if(e.dead||e.phased||b.hit.has(e)||distance(b,e)>e.r+5*(p.heavy||1))continue;if(b.hit.size===0)s.hits++;b.hit.add(e);const crit=s.rng()<Math.min(.9,p.crit||0);damageEnemy(s,e,p.damage*(crit?2:1));if(crit)floatText(s,e.x,e.y-30,'CRIT!','#fff0c1');burst(s,b.x,b.y,'#ffdf95',4,65);sound('hit');if(b.pierce--<=0){b.life=0;break;}}}s.bullets=s.bullets.filter(b=>b.life>0&&b.x>0&&b.x<1280&&b.y>85&&b.y<700);
+ for(const b of s.bullets){b.x+=b.vx*dt;b.y+=b.vy*dt;b.life-=dt;for(const e of s.enemies){if(e.dead||e.phased||b.hit.has(e)||distance(b,e)>e.r+5*(p.heavy||1))continue;if(!b.ward&&b.hit.size===0)s.hits++;b.hit.add(e);const crit=!b.ward&&s.rng()<Math.min(.9,p.crit||0);damageEnemy(s,e,b.ward?b.damage:p.damage*(crit?2:1));if(crit)floatText(s,e.x,e.y-30,'CRIT!','#fff0c1');burst(s,b.x,b.y,'#ffdf95',4,65);sound('hit');if(b.pierce--<=0){b.life=0;break;}}}s.bullets=s.bullets.filter(b=>b.life>0&&b.x>0&&b.x<1280&&b.y>85&&b.y<700);
  for(const e of [...s.enemies]){if(e.dead)continue;e.age+=dt;e.flash=Math.max(0,e.flash-dt);e.timer-=dt;let tx=CX,ty=CY,speed=e.speed*(1+s.wave*.035);if(e.type==='dasher'||e.type==='spitter'||e.type==='weaver'||e.type==='wraith'||e.type==='warden'||e.type==='boss'){tx=p.x;ty=p.y;}let a=Math.atan2(ty-e.y,tx-e.x);if(e.type==='dasher'){if(e.timer<=0){e.timer=2.1;e.lunge=.45;e.direction=a;}if(e.lunge>0){e.lunge-=dt;speed*=3;a=e.direction;}}if(e.type==='spitter'){const d=distance(e,p);if(d<245)speed=-speed;if(d>310)speed*=1.4;if(e.timer<=0){e.timer=2.7;fireOrb(s,e,a);}}
  if(e.type==='wraith'){e.phased=e.age%4>2.8;if(e.phased){speed=0;if(!e.wasPhased){e.x+=(p.x-e.x)*.28;e.y+=(p.y-e.y)*.28;burst(s,e.x,e.y,colors.wraith,15,90);}}e.wasPhased=e.phased;}if(e.type==='weaver'){const d=distance(e,p);speed=d<290?-speed:d<350?0:speed;if(e.timer<=0){e.burstLeft=(e.burstLeft||3)-1;e.timer=e.burstLeft>0?.18:2.5;fireOrb(s,e,a,155);}}
  if(e.type==='warden'){speed=(distance(e,p)<240?-12:24)*difficulty(s).speed;updateHeraldWarden(s,e,a);}

diff --git a/game/src/state.js b/game/src/state.js
@@ -1,3 +1,4 @@
+import {updateWards} from './wards.js';
 import {randomSource} from './rng.js';
 import {loadBest,saveBest} from './storage.js';
 import {kill,updateEntities} from './entities.js';
@@ -5,6 +6,6 @@ import {updatePickups} from './pickups.js';
 import {updateWave,startWave} from './waves.js';
 import {updateParticles} from './particles.js';
 import {sound} from './audio.js';
-export function createState(seed=Date.now()){const s={rng:randomSource(seed),screen:'title',difficulty:1,elapsed:0,time:0,wave:0,waveTime:0,score:0,best:loadBest(),combo:0,comboTimer:0,kills:0,shots:0,hits:0,flame:100,shake:0,damageFlash:0,banner:0,muted:false,owned:[],enemies:[],bullets:[],orbs:[],particles:[],texts:[],pickups:[],selected:0,player:{x:640,y:500,vx:0,vy:0,hp:100,max:100,speed:275,damage:20,rate:.18,cool:0,angle:-1.57,inv:0,shield:0,rapid:0,spread:0,pierce:0,magnet:0,orbits:0,mult:1,muzzle:0}};s.kill=e=>kill(s,e);s.finish=(won,cause='')=>{if(s.screen!=='play')return;s.screen=won?'victory':'defeat';s.cause=cause;s.best=Math.max(s.best,Math.floor(s.score));saveBest(s.best);sound(won?'victory':'defeat');};return s;}
+export function createState(seed=Date.now()){const s={rng:randomSource(seed),screen:'title',difficulty:1,elapsed:0,time:0,wave:0,waveTime:0,score:0,best:loadBest(),combo:0,comboTimer:0,kills:0,shots:0,hits:0,flame:100,shake:0,damageFlash:0,banner:0,muted:false,owned:[],wards:[],enemies:[],bullets:[],orbs:[],particles:[],texts:[],pickups:[],selected:0,player:{x:640,y:500,vx:0,vy:0,hp:100,max:100,speed:275,damage:20,rate:.18,cool:0,angle:-1.57,inv:0,shield:0,rapid:0,spread:0,pierce:0,magnet:0,orbits:0,mult:1,muzzle:0}};s.kill=e=>kill(s,e);s.finish=(won,cause='')=>{if(s.screen!=='play')return;s.screen=won?'victory':'defeat';s.cause=cause;s.best=Math.max(s.best,Math.floor(s.score));saveBest(s.best);sound(won?'victory':'defeat');};return s;}
 export function begin(s){startWave(s);}
-export function step(s,input,dt){s.time+=dt;s.heartburst=Math.max(0,(s.heartburst||0)-dt);s.clearFlash=Math.max(0,(s.clearFlash||0)-dt);updateParticles(s,dt);s.shake=Math.max(0,s.shake-dt*25);s.damageFlash=Math.max(0,s.damageFlash-dt);s.banner=Math.max(0,s.banner-dt);if(s.screen!=='play')return;if(s.hitStop>0){s.hitStop-=dt;return;}s.elapsed+=dt;s.comboTimer-=dt;if(s.comboTimer<=0)s.combo=0;updateEntities(s,input,dt);if(s.screen!=='play')return;updatePickups(s,dt);updateWave(s,dt);}
+export function step(s,input,dt){s.time+=dt;s.heartburst=Math.max(0,(s.heartburst||0)-dt);s.clearFlash=Math.max(0,(s.clearFlash||0)-dt);updateParticles(s,dt);s.shake=Math.max(0,s.shake-dt*25);s.damageFlash=Math.max(0,s.damageFlash-dt);s.banner=Math.max(0,s.banner-dt);if(s.screen!=='play')return;if(s.hitStop>0){s.hitStop-=dt;return;}s.elapsed+=dt;s.comboTimer-=dt;if(s.comboTimer<=0)s.combo=0;updateEntities(s,input,dt);if(s.screen!=='play')return;updateWards(s,dt);updatePickups(s,dt);updateWave(s,dt);}

diff --git a/game/src/wards.js b/game/src/wards.js
@@ -1,0 +1,36 @@
+import {burst,floatText} from './particles.js';
+import {sound} from './audio.js';
+export const WARD_COST=10, WARD_MAX=3;
+export function placeWard(s){
+ if(s.screen!=='play')return false;
+ const message=s.wards.length>=WARD_MAX?'WARD LIMIT REACHED':s.flame<=WARD_COST?'NOT ENOUGH LIGHT':'';
+ if(message){floatText(s,s.player.x,s.player.y-35,message);return false;}
+ s.flame-=WARD_COST;
+ const w={x:s.player.x,y:s.player.y,r:16,hp:60,max:60,cool:0,flash:0,ring:.5};
+ s.wards.push(w);burst(s,w.x,w.y,'#ffc568',25,110);floatText(s,w.x,w.y-40,'EMBER WARD · −10 LIGHT');sound('wardPlace');return true;
+}
+export function updateWards(s,dt){
+ for(const w of s.wards){
+  w.cool-=dt;w.flash=Math.max(0,w.flash-dt);w.ring=Math.max(0,w.ring-dt);
+  for(const e of s.enemies)if(!e.dead&&!e.phased&&Math.hypot(e.x-w.x,e.y-w.y)<e.r+w.r)w.hp-=25*dt;
+  for(const o of s.orbs)if(o.life>0&&Math.hypot(o.x-w.x,o.y-w.y)<w.r+(o.r||7)){w.hp-=10;o.life=0;}
+  if(w.hp<=0){burst(s,w.x,w.y,'#ff9b53',32,170);floatText(s,w.x,w.y-32,'WARD LOST');sound('wardLost');continue;}
+  let target,range=320;
+  for(const e of s.enemies){const d=Math.hypot(e.x-w.x,e.y-w.y);if(!e.dead&&!e.phased&&d<range){range=d;target=e;}}
+  if(target&&w.cool<=0){const a=Math.atan2(target.y-w.y,target.x-w.x);w.cool=.5;w.flash=.12;s.bullets.push({x:w.x,y:w.y,vx:Math.cos(a)*520,vy:Math.sin(a)*520,life:1,pierce:0,hit:new Set(),ward:true,damage:20,size:4});}
+ }
+ s.wards=s.wards.filter(w=>w.hp>0);s.orbs=s.orbs.filter(o=>o.life>0);
+}
+export function drawWards(c,s){
+ c.save();
+ for(const w of s.wards){
+  c.shadowColor='#ffb63e';c.shadowBlur=w.flash>0?32:17;c.lineWidth=2.5;c.strokeStyle='#ffc568';c.fillStyle='#392b26';
+  c.beginPath();for(let i=0;i<6;i++){const a=i*Math.PI/3;c.lineTo(w.x+Math.cos(a)*20,w.y+Math.sin(a)*20);}c.closePath();c.fill();c.stroke();
+  c.beginPath();c.arc(w.x,w.y,26,0,Math.PI*2);c.strokeStyle='#d9964d88';c.lineWidth=1;c.stroke();
+  if(w.ring>0){c.beginPath();c.arc(w.x,w.y,26+(1-w.ring/.5)*40,0,Math.PI*2);c.strokeStyle=`rgba(255,205,120,${w.ring*2})`;c.stroke();}
+  c.fillStyle=w.flash>0?'#ffffff':'#ffe5a1';c.beginPath();c.moveTo(w.x,w.y-15);c.lineTo(w.x+8,w.y);c.lineTo(w.x,w.y+10);c.lineTo(w.x-8,w.y);c.closePath();c.fill();
+  c.shadowBlur=0;c.lineWidth=3;c.strokeStyle='#55423a';c.beginPath();c.arc(w.x,w.y,30,Math.PI*1.15,Math.PI*1.85);c.stroke();c.strokeStyle='#ffe0a0';c.beginPath();c.arc(w.x,w.y,30,Math.PI*1.15,Math.PI*(1.15+.7*w.hp/w.max));c.stroke();
+  c.font='600 10px sans-serif';c.textAlign='center';c.fillStyle='#f8cf8d';c.fillText('WARD',w.x,w.y+42);
+ }
+ c.restore();
+}

diff --git a/game/src/audio.js b/game/src/audio.js
@@ -2,5 +2,5 @@ let ctx,muted=false,next=0,note=0;
 export function unlock(){if(!ctx)ctx=new AudioContext();if(ctx.state==='suspended')ctx.resume();}
 export function toggleMute(){muted=!muted;return muted;}
 export function tone(freq,duration=.1,type='sine',volume=.04,end=freq){if(!ctx||muted)return;const o=ctx.createOscillator(),g=ctx.createGain();o.type=type;o.frequency.setValueAtTime(freq,ctx.currentTime);o.frequency.exponentialRampToValueAtTime(Math.max(20,end),ctx.currentTime+duration);g.gain.setValueAtTime(volume,ctx.currentTime);g.gain.exponentialRampToValueAtTime(.0001,ctx.currentTime+duration);o.connect(g).connect(ctx.destination);o.start();o.stop(ctx.currentTime+duration);}
-export function sound(kind){const sounds={heartburst:[65,.7,'sawtooth',.08,900],dash:[240,.22,'sawtooth',.045,1100],elite:[460,.35,'square',.04,70],clear:[330,.65,'triangle',.07,1320],phase:[90,.8,'sawtooth',.065,480],shoot:[720,.065,'triangle',.025,220],hit:[180,.08,'square',.018,60],kill:[100,.2,'sawtooth',.025,30],pickup:[600,.2,'sine',.07,1200],wave:[180,.6,'triangle',.08,600],boss:[70,1,'sawtooth',.06,35],hurt:[120,.3,'sawtooth',.06,40]};if(kind==='victory'||kind==='defeat'){[0,1,2,3].forEach((n)=>setTimeout(()=>tone((kind==='victory'?330:220)*[1,1.25,1.5,2][n],.6,'triangle',.06),n*160));return;}tone(...(sounds[kind]||sounds.hit));}
+export function sound(kind){const sounds={wardPlace:[420,.35,'triangle',.07,1400],wardLost:[360,.45,'square',.045,55],heartburst:[65,.7,'sawtooth',.08,900],dash:[240,.22,'sawtooth',.045,1100],elite:[460,.35,'square',.04,70],clear:[330,.65,'triangle',.07,1320],phase:[90,.8,'sawtooth',.065,480],shoot:[720,.065,'triangle',.025,220],hit:[180,.08,'square',.018,60],kill:[100,.2,'sawtooth',.025,30],pickup:[600,.2,'sine',.07,1200],wave:[180,.6,'triangle',.08,600],boss:[70,1,'sawtooth',.06,35],hurt:[120,.3,'sawtooth',.06,40]};if(kind==='victory'||kind==='defeat'){[0,1,2,3].forEach((n)=>setTimeout(()=>tone((kind==='victory'?330:220)*[1,1.25,1.5,2][n],.6,'triangle',.06),n*160));return;}tone(...(sounds[kind]||sounds.hit));}
 export function ambient(t){if(t<next)return;next=t+.42;const scale=[110,164.81,220,261.63,329.63,220,164.81,130.81];tone(scale[note++%8],1.6,'sine',.012);}

diff --git a/README.md b/README.md
@@ -17,6 +17,8 @@ Wraiths phase and blink toward you; weavers keep their distance and fire three-o
 
 ## Spend the light you swore to save
 
+Press **E** to plant an **Ember Ward** at your position for **10 light** (must have more than 10). Keep up to **3**: each auto-fires at nearby foes, survives between waves, and has 60 HP. Enemy contact and orbs destroy wards. Spend light on defense, save it for Heartburst, or hoard it to survive.
+
 Press **Q or F** for **Heartburst**: spend 15 Heartflame light to scorch every enemy (including phased Wraiths) and erase enemy orbs. Normal foes take 120 damage; elites and bosses take 160. There is no cooldown: each desperate blast spends the very light you must defend. Ember nova remains a separate opening-wave boon.
 
 Select **Ember / Ash / Cinder** on the title with the mouse or left/right arrows; Ash is the default. Ember reduces enemy hull by 25% and slows flame drain; Cinder increases enemy hull and speed by 30%, drains light faster, and awards 50% more score. Your selection persists on restart.
